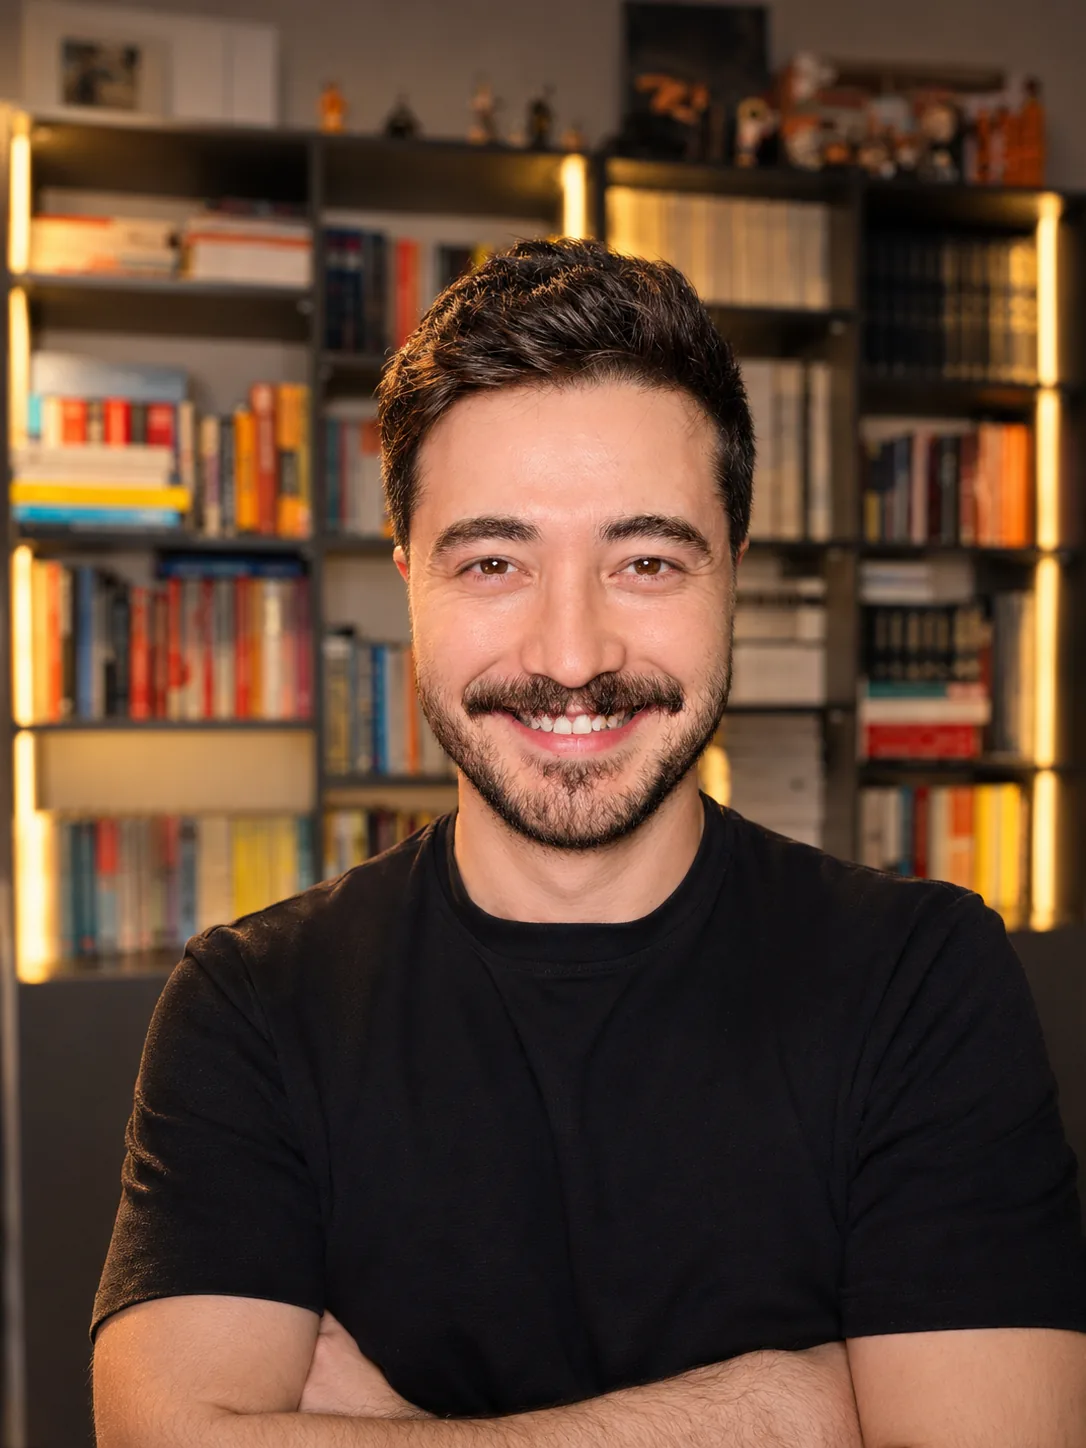
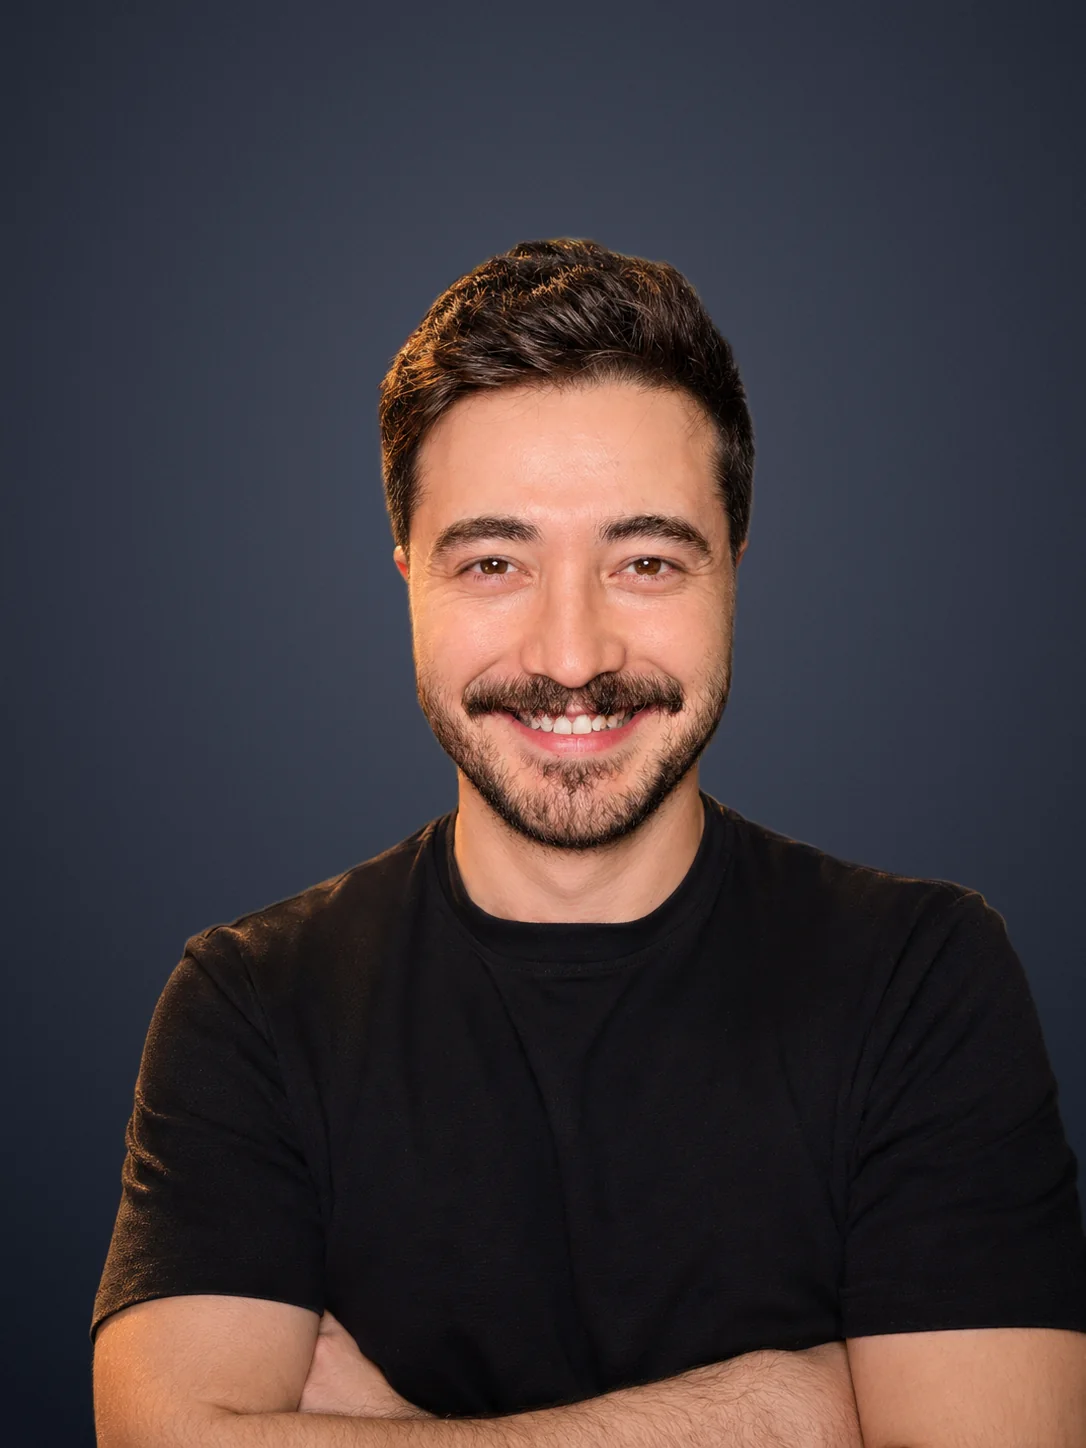
Swap portraits for studio-style versions with a plain backdrop
Bookshelf background removed and replaced with a soft grey-navy studio
backdrop; OG image regenerated from the new hero photo.

Claude-Session: https://claude.ai/code/session_01Dzdd9oJx14mWNMwUTrE9DB

diff --git a/index.html b/index.html
@@ -167,11 +167,11 @@
                 <figure class="fig">
                     <picture>
                         <source media="(max-width:600px)" srcset="/me/hero-sm.webp">
-                        <img src="/me/hero.webp" alt="Üçler Gönültaş in a black t-shirt, arms crossed, in front of a bookshelf" width="1086" height="1448" fetchpriority="high">
+                        <img src="/me/hero.webp" alt="Üçler Gönültaş in a black t-shirt, arms crossed" width="1086" height="1448" fetchpriority="high">
                     </picture>
                     <span class="hand" aria-hidden="true">that's me</span>
                     <svg class="arrow" viewBox="0 0 120 90" aria-hidden="true" fill="none" stroke="currentColor" stroke-width="5" stroke-linecap="round" stroke-linejoin="round"><path d="M10 80C40 82 84 66 104 22"/><path d="M80 30l25-10 6 27"/></svg>
-                    <figcaption class="mono">Fig. 1a · At the desk, Ankara</figcaption>
+                    <figcaption class="mono">Fig. 1a · Üçler, Ankara</figcaption>
                 </figure>
             </section>
             <div class="wrap">
@@ -364,7 +364,7 @@
                 <figure class="fig reveal">
                     <picture>
                         <source media="(max-width:600px)" srcset="/me/about-sm.webp">
-                        <img src="/me/about.webp" alt="Portrait of Üçler Gönültaş smiling in front of a bookshelf" width="1086" height="1448" loading="lazy">
+                        <img src="/me/about.webp" alt="Portrait of Üçler Gönültaş smiling" width="1086" height="1448" loading="lazy">
                     </picture>
                     <span class="hand" aria-hidden="true">hi!</span>
                     <svg class="arrow" viewBox="0 0 120 90" aria-hidden="true" fill="none" stroke="currentColor" stroke-width="5" stroke-linecap="round" stroke-linejoin="round"><path d="M108 8C78 6 40 22 16 70"/><path d="M12 44l3 28 26-10"/></svg>
